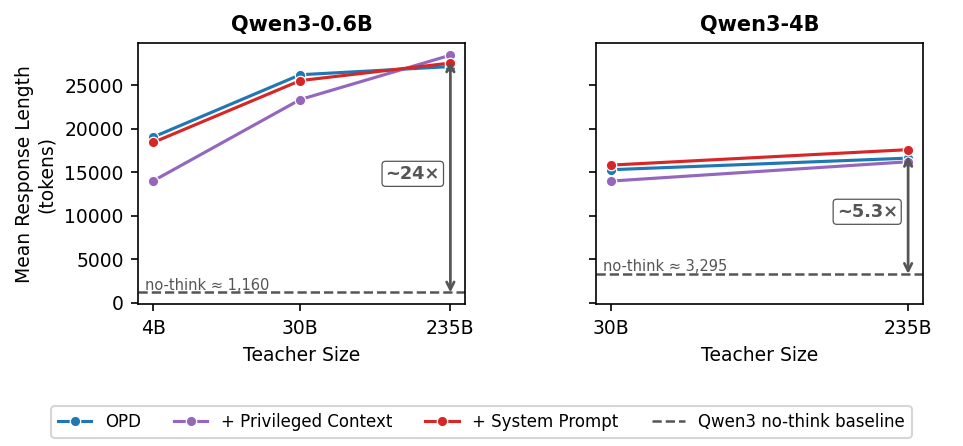
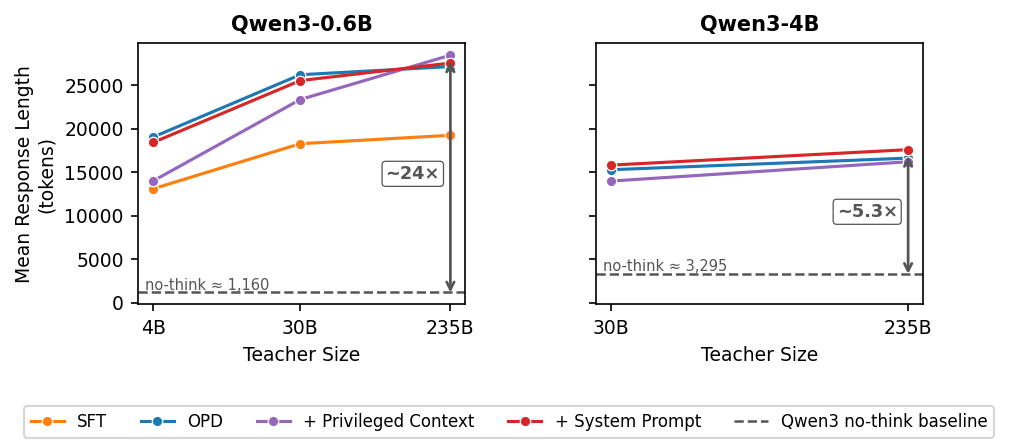
Updates from Overleaf

diff --git a/sections/experiments.tex b/sections/experiments.tex
@@ -278,11 +278,9 @@ One possible explanation for the longer student rollouts is that larger teachers
     Statistic & 4B teacher & 30B teacher & 235B teacher \\
     \midrule
     Max    & $8{,}195$   & $8{,}192$   & $8{,}193$ \\
-    p99    & $8{,}192$   & $8{,}192$   & $8{,}192$ \\
     p95    & $7{,}280$   & $7{,}756$   & $7{,}854$ \\
     Median & $1{,}714$   & $1{,}609$   & $1{,}667$ \\
     Mean   & $2{,}517.9$ & $2{,}534.3$ & $2{,}639.9$ \\
-    Min    & $1$         & $1$         & $1$ \\
     \bottomrule
   \end{tabular}
 \end{table}
@@ -340,3 +338,27 @@ This behavior presents another symptom of the capacity gap and shows how a small
     \caption{Effect of increasing the top-$K$ log probabilities. The 0.6B student benefits from increasing $K$ for the smallest teacher, but its performance degrades when using more log probabilities from the 235B teacher. These results suggest that the 0.6B student cannot capture the increasing complexity of the large teacher but benefits from more detailed feedback from a teacher within its reach. For the 4B student, scaling $K$ does not have a positive impact since its performance remains constant or decreases for all teachers.}
     \label{fig: top-k_effect}
 \end{figure}
+
+\section{Catastrophic Forgetting and OOD Reasoning}
+
+Throughout the experiments in the previous sections, we targeted improving the math reasoning skills of the students. The main metric for that purpose was AIME25, but we also tracked GPQA-Diamond and IFEval to check how distillation impacted a related reasoning benchmark like GPQA and a non-reasoning one like IFEval.
+
+We show in Figure \ref{fig: gpqa_reasoning} how the GPQA scores change for the different combinations of student and teacher. There is a notable difference between the 0.6B and the 4B. The former has a decline in performance as we scale the teacher while the latter either maintains or slightly increases performance. This difference in behavior points to the capacity of each student and how new knowlegde, in our case mathematical reasoning, displaces existing knowledge in the 0.6B student. In the 4B case, the model has enough capacity to retain science reasoning capabilities. 
+
+Despite this increase in the GPQA scores, the 4B student model does not reach the level of performance as the same model with reasoning enabled. This also aligns with the results we show in Figure \ref{fig: aime_with_reasoning}, where we compare the performance of the student in reasoning mode with the performance of the student after distillation. For the 4B student, the model improves around 25 points in all cases for AIME but it does not reach the score of the same model on reasoning mode. However, we do reach the same level of performance of the 0.6B model on reasoning mode. 
+
+\begin{figure}
+    \centering
+    \includegraphics[width=0.9\linewidth]{figures/pc_vs_system_gpqa.png}
+    \caption{Caption}
+    \label{fig: gpqa_reasoning}
+\end{figure}
+
+\begin{figure}
+    \centering
+    \includegraphics[width=0.9\linewidth]{figures/pc_vs_system_aime_reasoning.png}
+    \caption{Caption}
+    \label{fig: aime_with_reasoning}
+\end{figure}
+
+

diff --git a/sections/appendix.tex b/sections/appendix.tex
@@ -15,12 +15,16 @@
 
 \begin{figure}
     \centering
-    \includegraphics[width=0.9\linewidth]{figures/teacher_scaling_gpqa_top1.png}
-    \caption{Scores for GPQA for all students while training targeting math reasoning skills. The plots show how the 0.6B student suffers from catastrophic forgetting for the three methods, but also how SFT is the method that degrades performance the most. For the 4B student, all methods preserve the GPQA performance and even marginally improve it. These results show how the main driver in catastrophic forgetting is model capacity, and that on-policy methods are better to mitigate performance degradation.}
-    \label{fig: gpqa_forgetting}
+    \includegraphics[width=0.9\linewidth]{figures/pc_vs_system_ifeval.png}
+    \caption{Caption}
+    \label{fig: ifeval_reasoning}
 \end{figure}
 
 \FloatBarrier
+
+\section{Distilling Reasoning to Reasoning Models}
+
+
 
 \section{TAID Results}
 

diff --git a/sections/introduction.tex b/sections/introduction.tex
@@ -4,15 +4,15 @@ Large language models (LLMs) have become increasingly capable general-purpose sy
 
 In many applications, we do not need the full generality of a large language model. Instead, we want a model that is highly capable on a narrower distribution of tasks, such as a domain-specific assistant, a task-focused reasoner, or a model optimized for a particular interaction pattern. For those settings, the ideal system is not necessarily the most general model available, but rather one that preserves the relevant capabilities while being cheap, fast, and reliable to run. This motivates distillation because it enables using a powerful teacher model to transfer useful behavior into a smaller student model \cite{hintonDistillingKnowledgeNeural2015}. In the best case, distillation allows us to compress the skills of the most capable model into a specialized model that is much more efficient at inference time.
 
-The appeal of distillation is strongest when the student is as small as possible because smaller students are faster to run, easier to deploy, and cheaper to serve. At the same time, the most desirable teachers are usually the largest models available since model capability often increases with scale. This ideal scenario then has a large difference in the number of parameters between the teacher and the student. This difference between the number of parameters is called the capacity gap because it represent a difference in representational and computational power. A large capacity gap is attractive because it promises the greatest efficiency gain: the student is small, while the teacher provides high-quality supervision. However, it also makes the distillation problem substantially harder because the student cannot match the capabilities of a teacher \cite{mirzadehImprovedKnowledgeDistillation2019, zhangLiftingCurseCapacity2023}.
+The appeal of distillation is strongest when the student is as small as possible because smaller students are faster to run, easier to deploy, and cheaper to serve. At the same time, the most desirable teachers are usually the largest models available since model capability often increases with scale. This ideal scenario then has a large difference in the number of parameters between the teacher and the student. This difference between the number of parameters is \textit{called the capacity gap} because it represent a difference in representational and computational power. A large capacity gap is attractive because it promises the greatest efficiency gain: the student is small, while the teacher provides high-quality supervision. However, it also makes the distillation problem substantially harder because the student cannot match the capabilities of a teacher \cite{mirzadehImprovedKnowledgeDistillation2019, zhangLiftingCurseCapacity2023}.
 
 This difficulty gives rise to what is often called the curse of the capacity gap \cite{zhangLiftingCurseCapacity2023}. When the teacher and student are too different in capacity, the student may fail to benefit from the teacher’s supervision. In extreme cases, a larger, more capable teacher can lead to worse student performance than a smaller, less capable one \cite{mirzadehImprovedKnowledgeDistillation2019, liSmallModelsStruggle2025}. This is counterintuitive: one might expect the best teacher to always provide the best training signal. However, if the teacher’s behavior is too complex, too sharp, or too far from what the student can represent, the supervision may become difficult for the student to learn effectively. As a result, the teacher’s additional capability does not translate into better student performance.
 
-This creates a central challenge for distillation. The models we most want to distill from are often the largest and most capable, but those are precisely the ones that may introduce the most severe capacity gap. If we restrict ourselves to smaller teachers, distillation becomes easier but less desirable because the student inherits behavior from a teacher that is not the best at the task. If we restrict to larger students, we may obtain more capable models at the cost of higher inference costs. To fully realize the promise of distillation, we need methods that enable small students to learn effectively from much larger teachers \cite{shi2021FollowYourPath, shingTAIDTemporallyAdaptive2025, jang2026StableOnPolicyDistillation}. Bridging the capacity gap would allow us to combine the strengths of both sides: the capability of large models and the efficiency of small specialized models.
+This creates a central challenge for distillation. The models we most want to distill from are often the largest and most capable, but those are precisely the ones that may introduce the most severe capacity gap. If we restrict ourselves to smaller teachers, distillation becomes easier but less desirable because the student inherits behavior from a teacher that is not the best at the task. If we restrict to larger students, we may obtain more capable models at the cost of higher inference costs. Hence, to fully realize the promise of distillation, we need methods that enable small students to learn effectively from much larger teachers \cite{shi2021FollowYourPath, shingTAIDTemporallyAdaptive2025, jang2026StableOnPolicyDistillation}. Bridging the capacity gap would allow us to combine the strengths of both sides: the capability of large models and the efficiency of small specialized models.
 
 This thesis studies knowledge distillation under extreme teacher–student capacity gaps, with the goal of identifying effective ways to transfer knowledge from large teachers to much smaller students. In particular, we investigate settings in which the teacher can be up to 400 times larger than the student, motivated by the fact that such extreme capacity gaps are becoming increasingly common as the most capable models approach trillion-scale parameter counts \cite{team2026KimiK2Open, deepseekai2026deepseekv4}. We focus on on-policy distillation (OPD) \cite{agarwalOnPolicyDistillationLanguage2024, guMiniLLMOnPolicyDistillation2026, luOnPolicyDistillation2025} with privileged context (PC) \cite{penalozaPrivilegedInformationDistillation2026, zhaoSelfDistilledReasonerOnPolicy2026, shenfeldSelfDistillationEnablesContinual2026}, as this combination is especially promising for addressing large capacity gaps. OPD queries the teacher on states visited by the student, so it reduces the exposure bias that may become more severe as the student’s behavior diverges from that of a much larger teacher. PC provides a complementary benefit because larger teachers are expected to have stronger in-context learning capabilities. As the capacity gap grows, the teacher’s ability to exploit additional context should also increase. Privileged context can therefore leverage the teacher’s growing in-context learning advantage to produce richer and more informative supervision for the smaller student.
 
-To that end, we study OPD under extreme teacher--student capacity gaps and test several ways of making the teacher signal more useful to the student. First, we compare OPD with off-policy distillation and show that on-policy supervision is consistently stronger in our mathematical reasoning setting. However, we also find that OPD alone does not solve the capacity gap: increasing the teacher size from 4B or 30B to 235B does not reliably improve the student and can reduce the fraction of the teacher--student gap that is recovered.
+We study OPD under extreme teacher--student capacity gaps and test several ways of making the teacher signal more useful to the student. First, we compare OPD with off-policy distillation and show that on-policy supervision is consistently stronger in our mathematical reasoning setting. However, we also find that OPD alone does not solve the capacity gap: increasing the teacher size from 4B or 30B to 235B does not reliably improve the student and can reduce the fraction of the teacher--student gap that is recovered.
 
 Second, we evaluate privileged context as a way to exploit the teacher's stronger in-context learning ability. Our results show that this mechanism is fragile. A short PC that informs the teacher about the distillation setup already changes downstream performance, but it does not improve capacity-gap recovery. A more targeted PC for concise reasoning is also less effective than giving the same instruction directly to the student through a system prompt. This suggests that, in on-policy distillation, it is not enough for the teacher to see the right instruction at scoring time; the student must also generate rollouts under the behavior we want it to learn.
 
@@ -23,6 +23,8 @@ Fourth, we test whether richer token-level feedback can mitigate the gap by exte
 Finally, studying this regime requires addressing systems challenges that do not appear in ordinary supervised distillation. OPD must generate fresh student rollouts inside the training loop, query large teachers for token-level feedback, and move large log-probability payloads between serving and training workers. To make these experiments possible, we implement efficient training procedures for large-teacher OPD and release them as a trainer\footnote{\url{https://huggingface.co/docs/trl/distillation_trainer}} in TRL \cite{vonwerra2020trl}, together with a blog post \cite{patino2026_distilling_100b_models_40x_faster_with_trl} documenting the engineering lessons.
 
 To summarize, our contributions are:
+
+\cs{It is not super clear what is scientifically new in this thesis, would be good to include an explicit statement. Also the value of the contributions below cannot be well understood by somebody not skilled in the art. So better to be more explicit here as well. Help the general reader a bit to appreciate what you have done.}
 
 \begin{itemize}
     \item Showing that OPD outperforms off-policy distillation across extreme capacity gaps, but that larger teachers do not reliably produce better students or higher gap recovery (Sections \ref{sec: exp_opd_and_pc} and \ref{sec: exps_off_vs_on}).

diff --git a/sections/abstract.tex b/sections/abstract.tex
@@ -1,5 +1,5 @@
 \begin{abstract}
-Distillation is widely used to make large language model capabilities cheaper to deploy, and has applications in domain-specific assistants, task-focused reasoners, and other systems where a small specialized model is preferable to serving a much larger general model. Recent work has addressed this problem by training students from teacher-generated data, introducing intermediate or adaptive distillation targets, and using on-policy distillation in which a teacher scores rollouts sampled from the current student. Unfortunately, these approaches leave open how distillation behaves when the teacher is hundreds of times larger than the student, a regime where the strongest teachers can also produce supervision that is too complex for the student to learn effectively.
+Distillation is widely used to make large language model capabilities cheaper to deploy, and has applications in domain-specific assistants, task-focused reasoners, and other systems where a small specialized model is preferable to serving a much larger general model. \cs{You never explain the distillation problem.} Recent work has addressed the distillation problem by training students from teacher-generated data, introducing intermediate or adaptive distillation targets, and using on-policy distillation in which a teacher scores rollouts sampled from the current student. Unfortunately, these approaches leave open how distillation behaves when the teacher is hundreds of times larger than the student, a regime where the strongest teachers can also produce supervision that is too complex for the student to learn effectively.
 
-This thesis studies extreme capacity gaps directly and focused on the on-policy distillation setting. On-policy distillation reduces the mismatch between training and inference-time behavior, but it does not by itself solve the problem that small students may receive teacher signals that are too verbose, too sharp, or too specialized to internalize safely. Consequently, we develop and evaluate on-policy distillation variants for mathematical reasoning, including privileged-context teacher scoring, top-$k$ teacher losses, and student-visible context distillation for encouraging concise reasoning. While promising, this regime is non-trivial because on-policy rollouts must be generated inside the training loop, large teachers must provide token-level feedback efficiently, and specialization can cause catastrophic forgetting outside the target domain. Therefore, we further implement scalable training infrastructure for large-teacher on-policy distillation, release it as a TRL trainer, and evaluate target-domain performance, token efficiency, and out-of-domain retention across capacity gaps of up to 400$\times$.
+This thesis studies extreme capacity gaps between teachers and students directly and focuses on the on-policy distillation setting. On-policy distillation reduces the mismatch between training and inference-time behavior, but it does not by itself solve the problem that small students may receive teacher signals that are too verbose, too sharp, or too specialized to internalize safely. Consequently, we develop and evaluate on-policy distillation variants for mathematical reasoning, including privileged-context teacher scoring, top-$k$ teacher losses, and student-visible context distillation for encouraging concise reasoning. While promising, this regime is non-trivial because on-policy rollouts must be generated inside the training loop, large teachers must provide token-level feedback efficiently, and specialization can cause catastrophic forgetting outside the target domain. Therefore, we further implement scalable training infrastructure for large-teacher on-policy distillation, release it as a TRL trainer, and evaluate target-domain performance, token efficiency, and out-of-domain retention across capacity gaps of up to 400$\times$. \cs{So? What is the conclusion, you only describe what you have done.}
 \end{abstract}

diff --git a/sections/titlepage.tex b/sections/titlepage.tex
@@ -52,7 +52,7 @@ January - June 2026\\[1cm]
 Dr E \textsc{Beeching} \\
 Dr K \textsc{Rasul} \\
 Dr L \textsc{Tunstall} \\
-Dr C \textsc{Snoek}
+Prof. dr. C.G.M. \textsc{Snoek}
 \end{flushleft}
 \end{minipage}
 ~

diff --git a/main.tex b/main.tex
@@ -12,6 +12,7 @@
 \usepackage[a4paper,margin=2cm]{geometry}
 
 \newcommand{\red}[1]{{\color{red}{#1}}}
+\newcommand{\cs}[1]{\textcolor{orange}{CS: #1}}
 
 \begin{document}
 